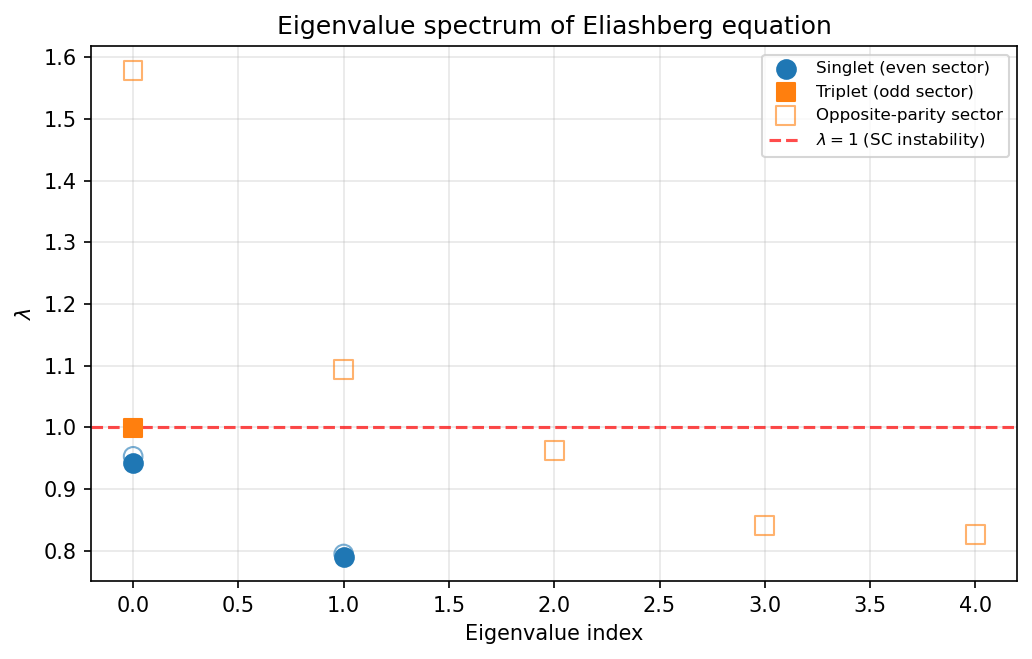
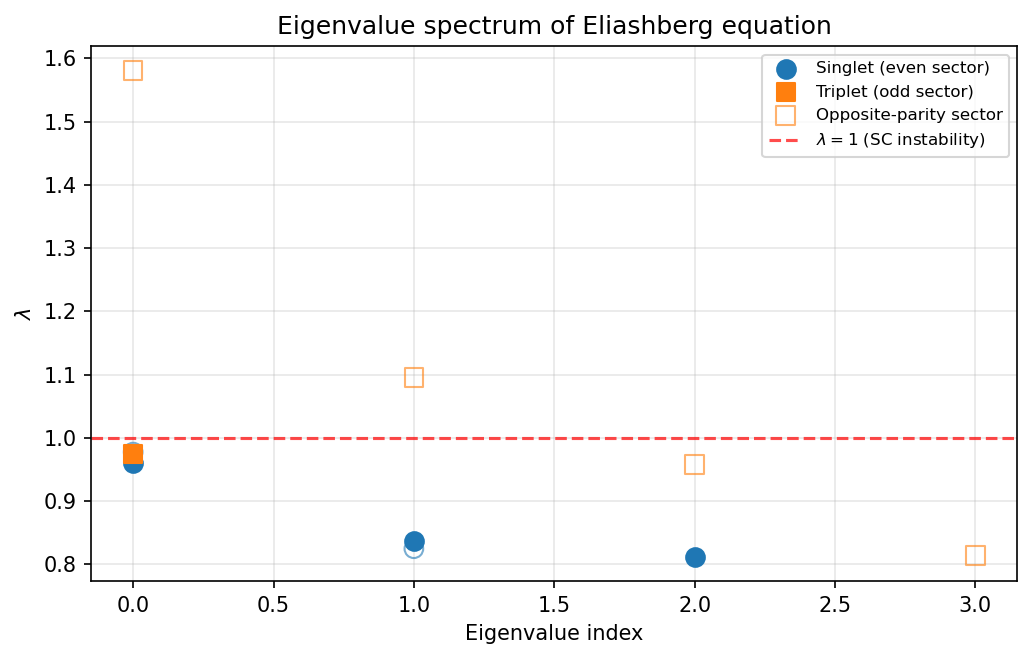
docs: recompute the DMBEDT superconductivity tutorial after the off-site vertex changes (EN/JA)
Since the bond-pairing work of issue #239, the non-bond pairing vertex keeps
only the Hartree part of the inter-cell interactions. The tutorial's numbers
predated that change.

The sample was rerun on develop 9b42cbe0 (hwave, then hwave_sc for the
singlet and the triplet input):
- singlet: lambda_S 0.94 -> 0.96;
- triplet: lambda_T 1.00 -> 0.97;
- spurious even-parity modes of the triplet kernel: 1.58, 1.10;
- singlet inter/intra-orbital gap ratio: about 4 -> about 5.

The triplet still leads, but narrowly and no longer at the threshold; the
interpretation is updated accordingly.

Also updated (EN/JA): the log examples and the eigenvalue.dat example, from
the same run, and a note giving the earlier values. The figures are
regenerated with plot_results.py and synced to docs/tutorial/Hubbard/SC,
whose inputs are identical.

Refs #239

Claude-Session: https://claude.ai/code/session_01JCrdiHddENw4ebnjgUmKce

diff --git a/docs/en/source/rpa/tutorial/sc-index.rst b/docs/en/source/rpa/tutorial/sc-index.rst
@@ -380,12 +380,12 @@ The output log shows the iteration progress:
 .. code-block:: text
 
     hwave_sc: === Self-consistent iteration ===
-    hwave_sc: Iteration    0: eigenvalue = 0.909443, diff = 5.659296e-01
-    hwave_sc: Iteration    1: eigenvalue = 0.699373, diff = 8.679877e-02
+    hwave_sc: Iteration    0: eigenvalue = 0.925449, diff = 3.540384e-01
+    hwave_sc: Iteration    1: eigenvalue = 0.818387, diff = 7.885727e-02
     ...
-    hwave_sc: Iteration  132: eigenvalue = 0.942845, diff = 9.971819e-06
-    hwave_sc: Converged at iteration 133
-    hwave_sc: Iteration result: eigenvalue = 0.942845, converged = True, n_iter = 133
+    hwave_sc: Iteration  192: eigenvalue = 0.961078, diff = 9.752299e-06
+    hwave_sc: Converged at iteration 193
+    hwave_sc: Iteration result: eigenvalue = 0.961078, converged = True, n_iter = 193
 
 followed by the eigenvalue analysis:
 
@@ -393,14 +393,14 @@ followed by the eigenvalue analysis:
 
     hwave_sc: === Eigenvalue analysis ===
     hwave_sc: Leading eigenvalues:
-    hwave_sc:     0: 0.942845 (|ev| = 0.942845)
-    hwave_sc:     1: 0.790190 (|ev| = 0.790190)
-    hwave_sc:     2: -0.962522 (|ev| = 0.962522)
-    hwave_sc:     3: -1.120544 (|ev| = 1.120544)
-    hwave_sc:     4: -1.356804 (|ev| = 1.356804)
-    hwave_sc:     5: 0.953007 (|ev| = 0.953007)  [opposite-parity sector]
-    hwave_sc:     6: 0.794702 (|ev| = 0.794702)  [opposite-parity sector]
-    hwave_sc:     7: -0.781888 (|ev| = 0.781888)  [opposite-parity sector]
+    hwave_sc:     0: 0.961079 (|ev| = 0.961079)
+    hwave_sc:     1: 0.837896 (|ev| = 0.837896)
+    hwave_sc:     2: 0.812195 (|ev| = 0.812195)
+    hwave_sc:     3: -0.889340 (|ev| = 0.889340)
+    hwave_sc:     4: -1.072771 (|ev| = 1.072771)
+    hwave_sc:     5: -1.351573 (|ev| = 1.351573)
+    hwave_sc:     6: 0.977706 (|ev| = 0.977706)  [opposite-parity sector]
+    hwave_sc:     7: 0.824931 (|ev| = 0.824931)  [opposite-parity sector]
     ...
 
 An eigenvalue :math:`\lambda > 1` (positive) indicates a superconducting instability
@@ -426,7 +426,7 @@ Gap function
 The following figures show the gap function :math:`\Sigma_{\alpha\beta}(\mathbf{k})`
 in momentum space obtained from the self-consistent iteration.
 
-**Singlet channel** (:math:`\lambda \approx 0.94`):
+**Singlet channel** (:math:`\lambda \approx 0.96`):
 
 .. figure:: ../sample_sc/gap_singlet.png
    :width: 90%
@@ -435,10 +435,10 @@ in momentum space obtained from the self-consistent iteration.
    Singlet gap function in k-space. Left: intra-orbital component
    :math:`\mathrm{Re}\,\Sigma_{00}(\mathbf{k})`.
    Right: inter-orbital component :math:`\mathrm{Re}\,\Sigma_{01}(\mathbf{k})`.
-   The inter-orbital component is about 4 times larger than the intra-orbital one,
+   The inter-orbital component is about 5 times larger than the intra-orbital one,
    indicating that inter-orbital pairing is dominant.
 
-**Triplet channel** (:math:`\lambda \approx 1.00`):
+**Triplet channel** (:math:`\lambda \approx 0.97`):
 
 .. figure:: ../sample_sc/gap_triplet.png
    :width: 90%
@@ -465,8 +465,8 @@ for both singlet and triplet channels.
    The dashed red line indicates :math:`\lambda = 1` (SC instability criterion).
    Filled markers are the **physical** eigenvalues (the gap has the channel
    parity: even for singlet, odd for triplet); open markers are **spurious**
-   opposite-parity modes. All physical eigenvalues lie below 1 (the triplet one
-   only just). The two open markers above 1 are even-parity solutions of the
+   opposite-parity modes. All physical eigenvalues lie below 1. The two open
+   markers above 1 are even-parity solutions of the
    *triplet* kernel, which the Pauli principle forbids for spin-triplet pairing
    (see the parity note below).
 
@@ -474,15 +474,15 @@ The Arnoldi eigenvalue analysis finds multiple eigenvalues.
 The figure shows only positive eigenvalues, which are relevant for the
 SC instability criterion :math:`\lambda = 1`.
 For the singlet channel, the leading **physical** (even-parity) eigenvalue is
-:math:`\lambda_S \approx 0.94 < 1`, matching the self-consistent iteration
+:math:`\lambda_S \approx 0.96 < 1`, matching the self-consistent iteration
 result, so there is no singlet SC instability at this temperature.
 
 For the triplet channel, the leading **physical** (odd-parity) eigenvalue is
-:math:`\lambda_T \approx 0.999`, just below 1. The larger values near
-:math:`1.58` and :math:`1.09` that appear in the triplet calculation are
+:math:`\lambda_T \approx 0.97 < 1`. The larger values near
+:math:`1.58` and :math:`1.10` that appear in the triplet calculation are
 even-parity (spurious) modes and are **not** triplet instabilities. The triplet
-leads (:math:`\lambda_T > \lambda_S`) and is at the threshold, so this
-temperature lies close to the triplet transition.
+leads narrowly (:math:`\lambda_T > \lambda_S`); both channels lie somewhat
+below the threshold at this temperature.
 
 Plotting script
 ^^^^^^^^^^^^^^^^^^^^^^^^^^^^^^^^
@@ -522,11 +522,11 @@ The eigenvalues of the linearized Eliashberg equation:
 .. code-block:: text
 
     # Iteration eigenvalue
-    9.42845268e-01
+    9.61078331e-01
     # Eigenvalue analysis
     # index  Re(eigenvalue)  Im(eigenvalue)  |eigenvalue|  match(1=channel-parity)
-       0  9.42844825e-01 -3.65296976e-12  9.42844825e-01 1
-       1  7.90190294e-01 -3.37474212e-12  7.90190294e-01 1
+       0  9.61078596e-01 -3.64174908e-12  9.61078596e-01 1
+       1  8.37896272e-01 -3.65082177e-12  8.37896272e-01 1
        ...
 
 The trailing ``match`` column is ``1`` when the eigenvector has the channel's
@@ -557,9 +557,8 @@ positive eigenvalue reaches :math:`\lambda = 1`, one can determine
 the superconducting transition temperature :math:`T_c`.
 
 In this example, at :math:`T = 0.1` both physical channels are below the
-instability threshold, with :math:`\lambda_S \approx 0.94` (singlet, even) and
-:math:`\lambda_T \approx 1.00` (triplet, odd); the triplet leads and is at the
-threshold.
+instability threshold, with :math:`\lambda_S \approx 0.96` (singlet, even) and
+:math:`\lambda_T \approx 0.97` (triplet, odd); the triplet leads narrowly.
 
 .. note::
 
@@ -578,7 +577,7 @@ threshold.
    ``hwave_sc`` therefore projects each self-consistent iterate onto the
    channel's parity sector, and the eigenvalue analysis labels each mode as
    physical (``match = 1``) or spurious (``match = 0``). The large values
-   :math:`\lambda \approx 1.58,\ 1.09` seen in the triplet calculation are such
+   :math:`\lambda \approx 1.58,\ 1.10` seen in the triplet calculation are such
    spurious even-parity modes, **not** triplet instabilities.
 
 Singlet vs. triplet comparison
@@ -593,9 +592,9 @@ odd-parity (triplet) seed such as ``"p_x"`` (the ready-made
 error rather than converging to an unphysical sector. Equivalently, omit
 ``init_gap`` entirely to let the solver pick the channel's parity automatically.
 At :math:`T = 0.1` with the same parameters, the leading physical eigenvalues are
-:math:`\lambda_T \approx 1.00` (triplet) and :math:`\lambda_S \approx 0.94`
-(singlet): the triplet leads and sits at the threshold, in line with Ref. [1]_,
-where the triplet SC state competes with the singlet for :math:`T > 0.05`.
+:math:`\lambda_T \approx 0.97` (triplet) and :math:`\lambda_S \approx 0.96`
+(singlet): the triplet leads narrowly, in line with Ref. [1]_, where the
+triplet SC state competes with the singlet for :math:`T > 0.05`.
 
 The two molecules of the unit cell are different sites, which the input
 declares with ``orbital_site = [0, 1]``: their in-cell interaction (the
@@ -607,7 +606,8 @@ configuration reference). Since issue #239 the pairing vertex of
 ``hwave_sc`` (``bond_channels = false``) also keeps only the Hartree part of
 the inter-cell interactions, as Ref. [1]_ does; earlier versions added their
 exchange in an approximate, collapsed form. The numbers quoted in this section
-were computed before that change.
+are computed with the current treatment (earlier versions gave
+:math:`\lambda_S \approx 0.94` and :math:`\lambda_T \approx 1.00`).
 
 
 .. _sc_dynamic_frequency:
